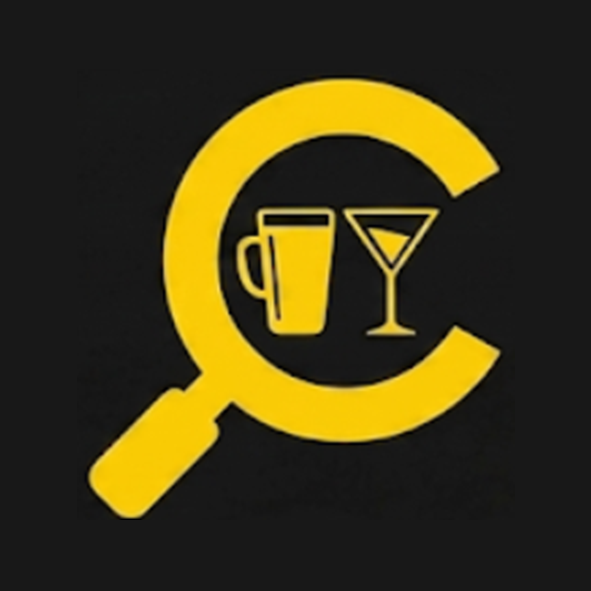
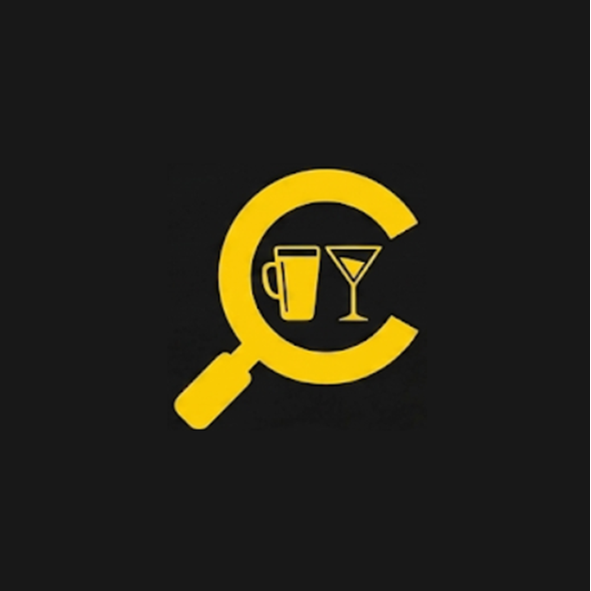
feat(images): implement fallback image system and improve location tracking
- Add fallbackImages.ts utility with drink-type-based image selection for bars
- Replace hardcoded placeholder URLs with getBarImage() function across all section components
- Update bar detail, flash, live now, top deals, and upcoming sections to use new fallback system
- Improve location tracking with immediate position fetch before watching for updates
- Add mounted flag to prevent state updates on unmounted components
- Increase location watch accuracy and add distanceInterval threshold
- Update app icon with new design
- Adjust drawer padding and filter pill spacing for better UI alignment
- Add extra line breaks in component imports for consistency

Changed region(s): [[0.1523, 0.1218, 0.8528, 0.8832]]

diff --git a/src/lib/fallbackImages.ts b/src/lib/fallbackImages.ts
@@ -1,0 +1,61 @@
+const COCKTAIL_IMAGES = [
+  'https://wfanbaefeuxczqxzqfdk.supabase.co/storage/v1/object/public/bar-photos/cocktails.jpg',
+  'https://wfanbaefeuxczqxzqfdk.supabase.co/storage/v1/object/public/bar-photos/cocktails2.jpg',
+  'https://wfanbaefeuxczqxzqfdk.supabase.co/storage/v1/object/public/bar-photos/cocktails3.jpg',
+  'https://wfanbaefeuxczqxzqfdk.supabase.co/storage/v1/object/public/bar-photos/cocktails4.jpg',
+  'https://wfanbaefeuxczqxzqfdk.supabase.co/storage/v1/object/public/bar-photos/cocktails5.jpg',
+  'https://wfanbaefeuxczqxzqfdk.supabase.co/storage/v1/object/public/bar-photos/cocktails6.jpg',
+  'https://wfanbaefeuxczqxzqfdk.supabase.co/storage/v1/object/public/bar-photos/cocktails7.jpg',
+];
+
+const BEER_WINE_IMAGES = [
+  'https://wfanbaefeuxczqxzqfdk.supabase.co/storage/v1/object/public/bar-photos/wine&beer.jpg',
+];
+
+const DRINKS_IMAGES = [
+  'https://wfanbaefeuxczqxzqfdk.supabase.co/storage/v1/object/public/bar-photos/drinks.jpg',
+  'https://wfanbaefeuxczqxzqfdk.supabase.co/storage/v1/object/public/bar-photos/drinks2.jpg',
+  'https://wfanbaefeuxczqxzqfdk.supabase.co/storage/v1/object/public/bar-photos/drinks3.jpg',
+  'https://wfanbaefeuxczqxzqfdk.supabase.co/storage/v1/object/public/bar-photos/drinks4.jpg',
+  'https://wfanbaefeuxczqxzqfdk.supabase.co/storage/v1/object/public/bar-photos/drinks5.jpg',
+  'https://wfanbaefeuxczqxzqfdk.supabase.co/storage/v1/object/public/bar-photos/drinks6.jpg',
+  'https://wfanbaefeuxczqxzqfdk.supabase.co/storage/v1/object/public/bar-photos/drinks7.jpg',
+];
+
+function pickRandom(arr: string[]): string {
+  return arr[Math.floor(Math.random() * arr.length)];
+}
+
+/**
+ * Returns the bar's image_url if available, otherwise picks a fallback
+ * based on the drinks array from the associated offer.
+ *
+ * @param imageUrl - The bar's image_url (may be null/undefined)
+ * @param drinks - The drinks array from the offer (e.g. ["cocktails"] or ["beer", "wine", "cocktails"])
+ * @param barId - Used as a seed for consistent picks per bar (so the image doesn't change on re-render)
+ */
+export function getBarImage(imageUrl: string | null | undefined, drinks?: string[], barId?: number): string {
+  if (imageUrl) return imageUrl;
+
+  // Normalise drinks to lowercase for matching
+  const normalised = (drinks || []).map((d) => d.toLowerCase().trim());
+
+  // If only cocktails
+  const hasCocktails = normalised.some((d) => d.includes('cocktail'));
+  const hasBeer = normalised.some((d) => d.includes('beer'));
+  const hasWine = normalised.some((d) => d.includes('wine'));
+
+  // Use barId for a stable "random" pick so it doesn't flicker on re-render
+  if (normalised.length === 1 && hasCocktails) {
+    const idx = barId != null ? barId % COCKTAIL_IMAGES.length : Math.floor(Math.random() * COCKTAIL_IMAGES.length);
+    return COCKTAIL_IMAGES[idx];
+  }
+
+  if (normalised.length <= 2 && (hasBeer || hasWine) && !hasCocktails) {
+    return BEER_WINE_IMAGES[0];
+  }
+
+  // Multiple drink types or anything else -> general drinks images
+  const idx = barId != null ? barId % DRINKS_IMAGES.length : Math.floor(Math.random() * DRINKS_IMAGES.length);
+  return DRINKS_IMAGES[idx];
+}

diff --git a/src/app/index.tsx b/src/app/index.tsx
@@ -59,15 +59,29 @@ export default function HomeScreen() {
       return () => navigator.geolocation.clearWatch(watchId);
     } else {
       let subscription: Location.LocationSubscription | null = null;
+      let mounted = true;
       (async () => {
         const { status } = await Location.requestForegroundPermissionsAsync();
-        if (status !== 'granted') return;
+        if (status !== 'granted' || !mounted) return;
+
+        // Get immediate position first so distances show quickly
+        try {
+          const current = await Location.getCurrentPositionAsync({ accuracy: Location.Accuracy.Balanced });
+          if (mounted) {
+            setUserLocation({ lat: current.coords.latitude, lng: current.coords.longitude });
+          }
+        } catch {}
+
+        // Then watch for updates
+        if (!mounted) return;
         subscription = await Location.watchPositionAsync(
           { accuracy: Location.Accuracy.Balanced, distanceInterval: 50 },
-          (loc) => setUserLocation({ lat: loc.coords.latitude, lng: loc.coords.longitude })
+          (loc) => {
+            if (mounted) setUserLocation({ lat: loc.coords.latitude, lng: loc.coords.longitude });
+          }
         );
       })();
-      return () => { subscription?.remove(); };
+      return () => { mounted = false; subscription?.remove(); };
     }
   }, []);
 

diff --git a/src/components/FlashSection.tsx b/src/components/FlashSection.tsx
@@ -2,6 +2,7 @@ import { Bar } from '@/lib/types';
 import React from 'react';
 import { FlatList, Image, Pressable, StyleSheet, Text, View } from 'react-native';
 
+
 interface Props {
   bars: Bar[];
   onPress: (bar: Bar) => void;
@@ -17,7 +18,7 @@ export function FlashSection({ bars, onPress }: Props) {
       contentContainerStyle={{ paddingHorizontal: 6, paddingTop: 12 }}
       renderItem={({ item }) => (
         <Pressable onPress={() => onPress(item)} style={({ pressed }) => [styles.flashCard, pressed && styles.pressed]}>
-          <Image source={{ uri: item.image_url || 'https://picsum.photos/300/180' }} style={styles.flashImage} />
+          <Image source={{ uri: getBarImage(item.image_url, undefined, item.id) }} style={styles.flashImage} />
           <View style={styles.flashOverlay}>
             <Text style={styles.flashName}>{item.name}</Text>
             <Text style={styles.flashDesc}>{item.flash_description || 'Flash deal!'}</Text>

diff --git a/src/components/LiveNowSection.tsx b/src/components/LiveNowSection.tsx
@@ -2,6 +2,7 @@ import { Bar, Offer } from '@/lib/types';
 import React from 'react';
 import { Image, Pressable, StyleSheet, Text, View } from 'react-native';
 
+
 interface Props {
   offers: Offer[];
   bars: Bar[];
@@ -48,7 +49,7 @@ export function LiveNowSection({ offers, bars, onPress, topDealBarIds, distanceM
                     <Text style={styles.topDealLabel}>TOP DEAL</Text>
                   </View>
                 )}
-                <Image source={{ uri: bar.image_url || 'https://picsum.photos/80/80' }} style={styles.liveImage} />
+                <Image source={{ uri: getBarImage(bar.image_url, (offer as any)?.drinks, bar.id) }} style={styles.liveImage} />
                 <View style={styles.liveInfo}>
                   <Text style={[
                     isTopDeal ? styles.topDealName : styles.liveName,

diff --git a/src/components/UpcomingSection.tsx b/src/components/UpcomingSection.tsx
@@ -2,6 +2,7 @@ import { Bar, Offer } from '@/lib/types';
 import React from 'react';
 import { Image, Pressable, StyleSheet, Text, View } from 'react-native';
 
+
 interface Props {
   offers: Offer[];
   bars: Bar[];
@@ -55,7 +56,7 @@ export function UpcomingSection({ offers, bars, onPress, topDealBarIds, distance
                     <Text style={[styles.topDealLabel, pressed && { color: '#E1B12C' }]}>TOP DEAL</Text>
                   </View>
                 )}
-                <Image source={{ uri: bar.image_url || 'https://picsum.photos/80/80' }} style={styles.liveImage} />
+                <Image source={{ uri: getBarImage(bar.image_url, (offer as any)?.drinks, bar.id) }} style={styles.liveImage} />
                 <View style={styles.liveInfo}>
                   <Text style={[styles.upcomingName, { color: pressed ? pressedTextColor : nameColor }]}>{bar.name}</Text>
                   <Text style={[styles.upcomingDeal, { color: pressed ? pressedTextColor : dealColor }]}>{offer['deal summary'] || '2-4-1 cocktails'}</Text>

diff --git a/src/app/bar-detail.tsx b/src/app/bar-detail.tsx
@@ -118,7 +118,7 @@ export default function BarDetailScreen() {
         {/* Bar Image */}
         <View style={styles.imageWrapper}>
           <Image
-            source={{ uri: bar.image_url || 'https://picsum.photos/seed/929/600' }}
+            source={{ uri: getBarImage(bar.image_url, (offer as any)?.drinks, bar.id) }}
             style={styles.barImage}
           />
         </View>

diff --git a/src/components/AppDrawer.tsx b/src/components/AppDrawer.tsx
@@ -142,7 +142,7 @@ const styles = StyleSheet.create({
     width: DRAWER_WIDTH,
     height: '100%',
     backgroundColor: '#121212',
-    paddingTop: 60,
+    paddingTop: 100,
     paddingHorizontal: 16,
     position: 'absolute',
     left: 0,

diff --git a/src/components/FilterPills.tsx b/src/components/FilterPills.tsx
@@ -63,7 +63,7 @@ const styles = StyleSheet.create({
     color: '#6B7280',
     letterSpacing: 0.8,
     textTransform: 'uppercase' as any,
-    paddingHorizontal: 16,
+    paddingHorizontal: 24,
     marginBottom: 8,
   },
   scrollWrapper: {

diff --git a/src/components/TopDealsSection.tsx b/src/components/TopDealsSection.tsx
@@ -47,7 +47,7 @@ export function TopDealsSection({ bars, offers, onPress, liveBarIds }: Props) {
             {({ pressed }) => (
               <>
                 <View style={styles.imageWrapper}>
-                  <Image source={{ uri: item.image_url || 'https://picsum.photos/160/100' }} style={styles.topDealImage} />
+                  <Image source={{ uri: getBarImage(item.image_url, (offer as any)?.drinks, item.id) }} style={styles.topDealImage} />
                   <View style={styles.statusPill}>
                     <Text style={styles.statusPillText}>{isLive ? 'LIVE' : 'SOON'}</Text>
                     {isLive ? <IconStation size={10} color="#121212" /> : <IconTime size={10} color="#121212" />}